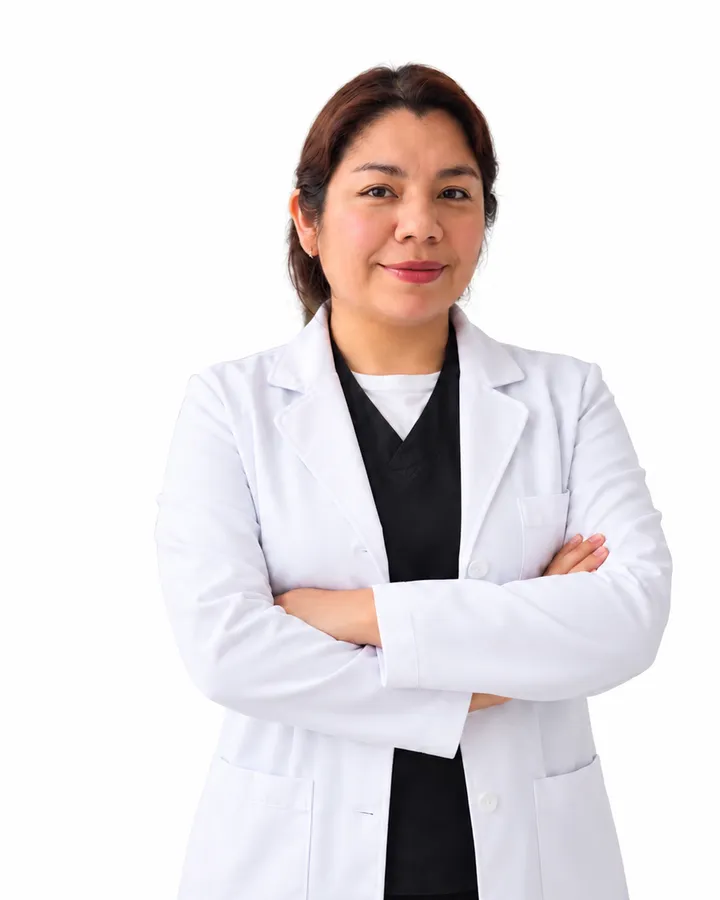
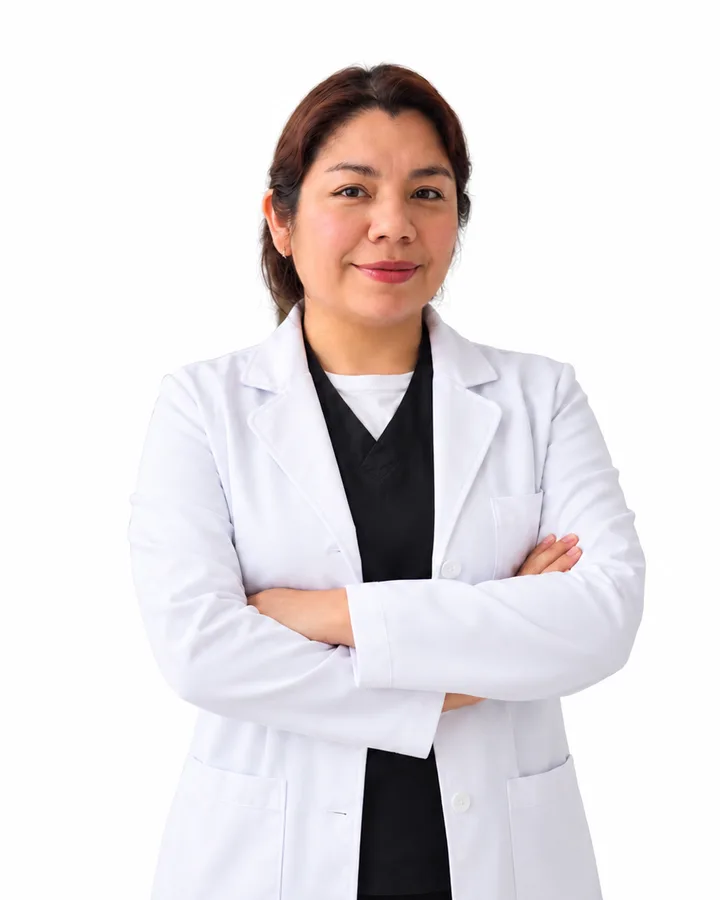
feat(P1): directorio de staff con retratos uniformes y tarjetas renovadas

diff --git a/src/components/doctors/DoctorCard.tsx b/src/components/doctors/DoctorCard.tsx
@@ -15,12 +15,23 @@ import { ROUTES } from "@/config/routes";
 export function StaffCard({ doctor, serviceSlug }: { doctor: Doctor; serviceSlug?: string }) {
   return (
     <article data-reveal-item="" className="group flex h-full flex-col overflow-hidden rounded-[24px] border border-line-soft bg-white transition-[transform,box-shadow] duration-[450ms] ease-out hover:-translate-y-1.5 hover:shadow-lift">
-      <Link href={ROUTES.doctor(doctor.slug)} className="block no-underline" tabIndex={-1} aria-hidden="true">
-        <DoctorPortrait doctor={doctor} className="aspect-[4/5] bg-gradient-to-b from-mist to-white" initialsSize={96} label={null} rings="none" sizes="(max-width: 640px) 100vw, 320px" />
+      <Link href={ROUTES.doctor(doctor.slug)} className="relative block overflow-hidden no-underline" tabIndex={-1} aria-hidden="true">
+        <DoctorPortrait
+          doctor={doctor}
+          className="aspect-square transition-transform sm:aspect-[5/6] duration-700 ease-out group-hover:scale-[1.03] motion-reduce:transition-none motion-reduce:group-hover:scale-100"
+          initialsSize={96}
+          label={null}
+          rings="none"
+          sizes="(max-width: 640px) 100vw, 380px"
+          imageClassName="object-top sm:object-center"
+        />
+        <span aria-hidden="true" className="pointer-events-none absolute inset-x-0 bottom-0 h-20 bg-gradient-to-t from-white to-transparent" />
+        <span className="absolute left-4 top-4 rounded-full bg-white/90 px-3 py-1 text-[13px] font-semibold text-teal shadow-sm backdrop-blur-sm">
+          {doctor.specialty}
+        </span>
       </Link>
-      <div className="flex flex-1 flex-col gap-3 p-5">
+      <div className="-mt-6 relative flex flex-1 flex-col gap-4 px-5 pb-5">
         <div className="flex flex-col gap-1">
-          <span className="text-xs font-semibold uppercase tracking-[1px] text-leaf">{doctor.specialty}</span>
           <h3 className="m-0 font-display text-xl font-semibold leading-tight">
             <Link href={ROUTES.doctor(doctor.slug)} className="!text-ink no-underline hover:!text-teal">
               {doctor.name}
@@ -33,6 +44,13 @@ export function StaffCard({ doctor, serviceSlug }: { doctor: Doctor; serviceSlug
             </span>
           )}
         </div>
+        <ul aria-label="Atiende" className="m-0 flex list-none flex-wrap gap-1.5 p-0">
+          {doctor.treats.map((item) => (
+            <li key={item} className="rounded-full bg-mist px-2.5 py-1 text-[12.5px] font-medium text-subink">
+              {item}
+            </li>
+          ))}
+        </ul>
         <span className="mt-auto inline-flex items-center gap-2 text-[13px] font-medium text-subink">
           <Icon name="clock" className="text-leaf" strokeWidth={1.8} />
           Próxima cita: <NextAvailableText slug={doctor.slug} />

diff --git a/src/components/ui/DoctorPortrait.tsx b/src/components/ui/DoctorPortrait.tsx
@@ -27,6 +27,7 @@ export function DoctorPortrait({
   rings = "corner",
   sizes = "(max-width: 768px) 100vw, 400px",
   priority,
+  imageClassName,
   children,
 }: {
   doctor: Pick<Doctor, "name" | "initials" | "tint" | "photo">;
@@ -38,6 +39,8 @@ export function DoctorPortrait({
   /** Patrón decorativo de círculos: esquina inferior, superior o ninguno. */
   rings?: "corner" | "top" | "none";
   sizes?: string;
+  /** Clases extra de la foto (p. ej. `object-top` para recortes bajos). */
+  imageClassName?: string;
   priority?: boolean;
   /** Elementos superpuestos (etiquetas, botón de video…). */
   children?: ReactNode;
@@ -48,7 +51,7 @@ export function DoctorPortrait({
       style={{ background: doctor.tint }}
     >
       {doctor.photo ? (
-        <Image src={doctor.photo} alt={`Foto de ${doctor.name}`} fill sizes={sizes} priority={priority} className="object-cover" />
+        <Image src={doctor.photo} alt={`Foto de ${doctor.name}`} fill sizes={sizes} priority={priority} className={cn("object-cover", imageClassName)} />
       ) : (
         <>
           {rings !== "none" && (

diff --git a/src/components/staff/StaffDirectory.tsx b/src/components/staff/StaffDirectory.tsx
@@ -79,9 +79,14 @@ export function StaffDirectory({ doctors, services, initialService = "todos", in
       </p>
 
       {list.length > 0 ? (
-        <div className="mt-4 grid grid-cols-[repeat(auto-fill,minmax(min(260px,100%),1fr))] gap-5 [perspective:1400px]">
+        <div className="mt-4 flex flex-wrap justify-center gap-5 [perspective:1400px]">
           {list.map((d, i) => (
-            <Tilt key={d.slug} enterKey={`${service}|${query}`} index={i}>
+            <Tilt
+              key={d.slug}
+              enterKey={`${service}|${query}`}
+              index={i}
+              className="w-full sm:w-[calc((100%-1.25rem)/2)] lg:w-[calc((100%-2.5rem)/3)]"
+            >
               <StaffCard doctor={d} serviceSlug={service === "todos" ? undefined : service} />
             </Tilt>
           ))}

diff --git a/src/components/home/sections/QuickActions.tsx b/src/components/home/sections/QuickActions.tsx
@@ -136,7 +136,7 @@ function AvatarStack({ staff }: { staff: readonly StaffAvatar[] }) {
           key={doctor.slug}
           className={cn("relative h-11 w-11 overflow-hidden rounded-full bg-white shadow-[0_0_0_2px_#fff,0_0_0_3px_rgba(23,97,107,.2)]", i > 0 && "-ml-2.5")}
         >
-          {doctor.photo && <Image src={doctor.photo} alt="" fill sizes="88px" className="origin-[50%_12%] scale-[1.6] object-cover object-top" />}
+          {doctor.photo && <Image src={doctor.photo} alt="" fill sizes="88px" className="origin-[50%_10%] scale-[1.6] object-cover object-top" />}
         </span>
       ))}
     </span>

diff --git a/docs/revision.md b/docs/revision.md
@@ -42,7 +42,7 @@ Por cada comentario se registra: qué se pidió, qué se cambió, cómo se verif
 ### Staff (`/staff-de-profesionales/` y perfiles)
 | Código | Sección | Archivo principal | Estado |
 |---|---|---|---|
-| P1 | Directorio: filtros, buscador y tarjetas | `components/staff/StaffDirectory.tsx`, `components/doctors/DoctorCard.tsx` | ⬜ |
+| P1 | Directorio: filtros, buscador y tarjetas | `components/staff/StaffDirectory.tsx`, `components/doctors/DoctorCard.tsx` | 🔄 |
 | P2 | Cabecera del perfil | `components/profile/ProfileHero.tsx` | ⬜ |
 | P3 | Especialidades y formación | `components/profile/ProfileSections.tsx` · datos en `data/doctors.ts` | ⬜ |
 | P4 | Panel "Reserva tu cita" | `components/profile/BookingWidget.tsx` | ⬜ |
@@ -77,6 +77,7 @@ Por cada comentario se registra: qué se pidió, qué se cambió, cómo se verif
 - [ ] Razón social, RUC y domicilio para el Libro de Reclamaciones (L1, L2)
 - [ ] Qué WhatsApp recibe las citas y cuál las consultas (G4, C1, R5)
 - [ ] Nombres de los dos retratos sin identificar (P1)
+- [ ] Foto del Dr. Rondón con el mismo encuadre que el resto (P1): solo existe un recorte cercano con fondo gris; se aclaró el fondo, pero sigue viéndose más grande
 - [ ] Correo corporativo con el dominio nuevo (G3, C1)
 
 ## Registro de cambios
@@ -92,4 +93,5 @@ Por cada comentario se registra: qué se pidió, qué se cambió, cómo se verif
 | 2026-11-15 | I3 | Botón "Agendar" a la derecha de cada tarjeta de servicio | La tarjeta pasa de enlace único a `article` con dos acciones: "Conocer más" estirado sobre toda la tarjeta (clic en la foto → servicio) y "Agendar" (44 px) que abre `/reservar/?servicio=<slug>` con el servicio preseleccionado. Foco de teclado visible en la tarjeta. E2E de inicio actualizada (+1 test de Agendar) | Playwright: Agendar → reserva con Acupuntura elegida; clic en foto → /servicios/nutricion/; foco visible; capturas escritorio y móvil sin errores de consola; tsc + eslint | 372188a |
 | 2026-11-15 | I5 | Mejorar "Tenemos el respaldo de" sin quitar ninguna de las 3; alguna animación sutil | Cada logo dentro de un sello con aro punteado que gira muy lento (40 s/vuelta, se detiene con "reducir movimiento") y se pinta teal al pasar el cursor; el logo se acerca levemente. Debajo del nombre, una línea de por qué respalda (datos de los perfiles del staff, campo `detail` en `data/clinic.ts`). Móvil: filas compactas sello + texto (~550 px en vez de ~1000 px). Se probó poner los logos en gris y se descartó: se veían apagados | Playwright: capturas escritorio (hover) y móvil; animación `spin 40s` activa y `none` con reducedMotion; sin errores de consola; tsc + eslint | 89c7baa |
 | 2026-11-15 | I6 | Intercalar mejor las fotos (el mismo paciente salía repetido y junto) y presentar la galería con mejor UX/UI | Título "Conoce nuestra clínica" + intro. Mosaico que respeta la orientación: las 2 verticales ocupan 2 filas a los costados, las 4 horizontales en 4:3 al centro; orden nuevo con las 2 fotos del paciente de los tatuajes en diagonal (escritorio) y separadas 3 filas (móvil). Leyenda por foto (al pasar el cursor / con foco; siempre visible en táctil). Visor a pantalla completa (`<dialog>` nativo): flechas, ←/→, deslizar en móvil, Esc y clic fuera cierran, contador "2 / 6", foco vuelve a la miniatura, scroll bloqueado. Nuevos: `components/gallery/{PhotoMosaic,Lightbox}.tsx`, `models/gallery.ts`, icono `expand`. +1 E2E del visor | Playwright: capturas escritorio (hover), móvil táctil y visor; teclado (→, ←×3 con vuelta, Esc), clic fuera, swipe izq./der. y swipe corto ignorado; foco devuelto; sin errores de consola; tsc + eslint | 54b0401 |
-| 2026-11-15 | I8 | Testimonios en una sola fila como carrusel; dejar lista la conexión con Trustindex | Reseñas en una fila deslizable (scroll-snap: arrastre en móvil; flechas que avanzan una página y se desactivan en los extremos; se ocultan si todas caben). 3 visibles en escritorio, 2 en tablet, 1 y un poco de la siguiente en móvil. Espacio para el widget de Trustindex: con `NEXT_PUBLIC_TRUSTINDEX_WIDGET_ID` (validado: solo letras y números) se carga su script y reemplaza a las reseñas fijas; vacío = reseñas de `data/reviews.ts`. Aplica también a las páginas de servicio (S5). README con los pasos | Playwright: escritorio y móvil táctil, flechas (inicio desactivada → avanza → fin desactivada), página de servicio; sin errores de consola; tsc + eslint. El widget real queda sin probar hasta tener el ID | ver git log |
+| 2026-11-15 | I8 | Testimonios en una sola fila como carrusel; dejar lista la conexión con Trustindex | Reseñas en una fila deslizable (scroll-snap: arrastre en móvil; flechas que avanzan una página y se desactivan en los extremos; se ocultan si todas caben). 3 visibles en escritorio, 2 en tablet, 1 y un poco de la siguiente en móvil. Espacio para el widget de Trustindex: con `NEXT_PUBLIC_TRUSTINDEX_WIDGET_ID` (validado: solo letras y números) se carga su script y reemplaza a las reseñas fijas; vacío = reseñas de `data/reviews.ts`. Aplica también a las páginas de servicio (S5). README con los pasos | Playwright: escritorio y móvil táctil, flechas (inicio desactivada → avanza → fin desactivada), página de servicio; sin errores de consola; tsc + eslint. El widget real queda sin probar hasta tener el ID | 10c7816 |
+| 2026-11-15 | P1 | Mostrar mejor el staff de profesionales | Retratos re-encuadrados desde los originales con la misma escala (cabeza = 25 % de la altura, a la misma distancia del borde); el del Dr. Rondón (solo existe recortado) bajado 38 px y fondo gris aclarado solo en píxeles neutros. Grilla 3 + 2 centrada (sin fila huérfana). Tarjeta: especialidad como etiqueta sobre la foto (sin mayúsculas), foto que se funde con la tarjeta, chips de lo que atiende (`treats`), acercamiento leve al pasar el cursor; foto cuadrada en móvil (−360 px de página). `DoctorPortrait` acepta `imageClassName`. Avatares del inicio (I4) reajustados a los nuevos encuadres. También aplica a "Nuestros profesionales" de cada servicio (S4) | Playwright: staff escritorio y móvil táctil, página de servicio, perfil de la Dra. Ramirez, avatares del inicio; sin errores de consola; tsc + eslint | ver git log |
